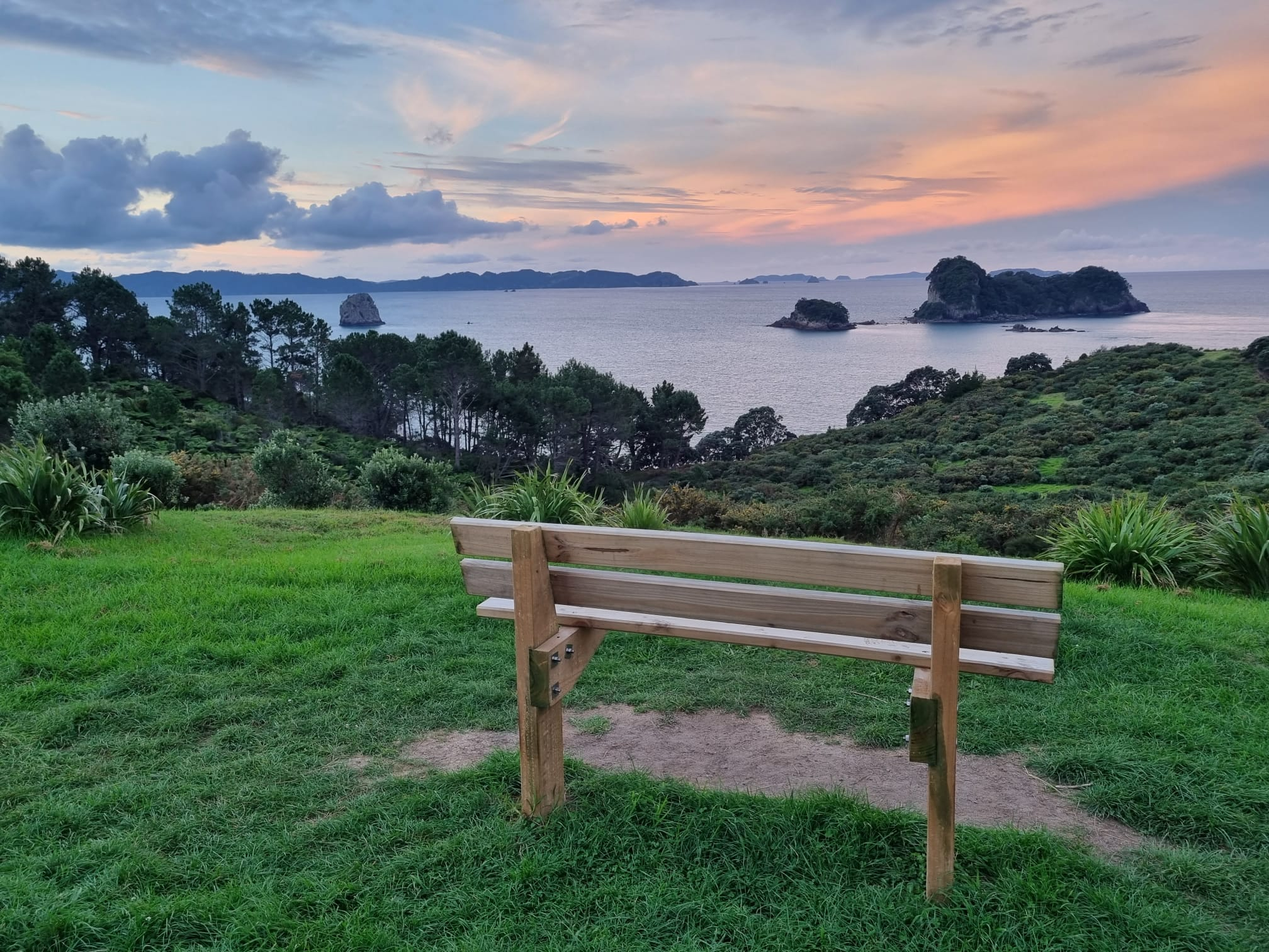
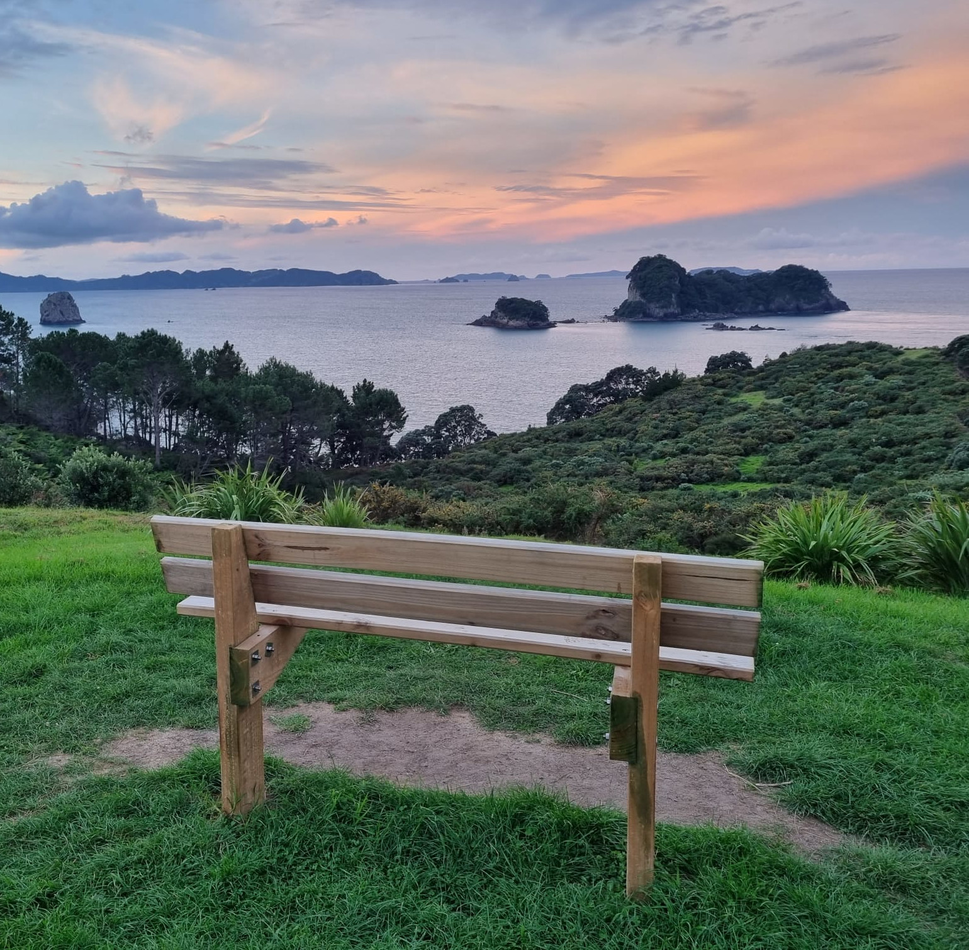
Styling touch ups

diff --git a/source/stylesheets/_pattern.scss b/source/stylesheets/_pattern.scss
@@ -2,8 +2,8 @@
 // -------------------------------------------------------------------
 .pattern--left-down {
     height: 420px;
-    top: 50px;
-    right: 50px;
+    top: 20px;
+    right: 20px;
 }
 
 .pattern--left-up {

diff --git a/source/stylesheets/_embeds.scss b/source/stylesheets/_embeds.scss
@@ -3,7 +3,7 @@
 // Make stuff responsive
 img, canvas, iframe, video, svg { max-width: 100%; }
 
-.logo { width: 385px; }
+.logo { height: 200px; }
 
 .info-image {
     @media screen and (min-width: $breakpoint--md) {

diff --git a/source/stylesheets/all.css.scss b/source/stylesheets/all.css.scss
@@ -82,3 +82,12 @@
     }
 
 }
+
+h1 {
+  text-decoration: none !important;
+}
+
+a {
+  color: inherit !important;
+  text-decoration: none !important;
+}

diff --git a/config.rb b/config.rb
@@ -21,7 +21,7 @@ page "/admin/*", layout: false
 activate :blog do |blog|
   blog.permalink = "blog/{title}.html"
   blog.sources = "posts/{title}.html"
-  # blog.layout = "news-detail"
+  blog.layout = "layout"
 end
 
 # With alternative layout

diff --git a/source/posts/tis-tid-dam-er-zin.html.md b/source/posts/tis-tid-dam-er-zin.html.md
@@ -2,8 +2,19 @@
 title: Tis tid dam er zin
 date: 2022-04-19T04:24:29.991Z
 description: De eerste verkenning door het Noordereiland
-image: /images/uploads/hubble.jpg
+image: /images/uploads/coromandel_bench.jpeg
 ---
-De deurbel gaat, we verwachten nochthans niemand? Wie zou dat nu weer zijn. Verrassend staat er een politieagente in uniform. `Mag ik bij jullie even binnenkomen om jullie verhuis in orde te brengen?`. Natuurlijk op een ongelegen moment, `Ja uiteraard kom maar binnen`, we begeleiden haar tussen de verhuisdozen en maken haastig wat plaats op de het keukeneiland, het enige tafelblad die ons nog rest. Dus jullie zijn Thomas en Marjolein? Aha nee, das een misverstand, dat zijn de volgende huurders. Onze vertroebelde hersens hadden het plots optreden van de wijkagente niet meer helder kunnen verwerken. De cyclus demontage, inpakken, transporteren had onze hersenfunctie tijdelijk aangetast, laat staan alle mentale overwegingen die we hadden moeten maken bij moeilijke keuzes wat er al dan niet meekon.
+
+De deurbel gaat, we verwachten nochthans niemand? Wie zou dat nu weer zijn. Verrassend staat er een politieagente in uniform.
+
+
+`Mag ik bij jullie even binnenkomen om jullie verhuis in orde te brengen?`
+
+
+Natuurlijk op een ongelegen moment,
+
+
+`Ja uiteraard kom maar binnen`, we begeleiden haar tussen de verhuisdozen en maken haastig wat plaats op de het keukeneiland, het enige tafelblad die ons nog rest. Dus jullie zijn Thomas en Marjolein? Aha nee, das een misverstand, dat zijn de volgende huurders. Onze vertroebelde hersens hadden het plots optreden van de wijkagente niet meer helder kunnen verwerken. De cyclus demontage, inpakken, transporteren had onze hersenfunctie tijdelijk aangetast, laat staan alle mentale overwegingen die we hadden moeten maken bij moeilijke keuzes wat er al dan niet meekon.
+
 
 Helaas bleek die hersenfunctie net cruciaal te zijn wanneer we de volgende keer iemand in uniform zagen. Op Zaventem omstreeks 9u15, boarding time 9u30. Nochthans vroeg vertrokken, maarja Brussel en files gaan samen als een tandarts en kiespijn. Barbara en Peter hadden ons vroeg klaargestoomd en op de ideal plek afgezet, en een helaas kort maar daarom niet minder intens afscheid had net plaatsgevonden. Gelukkig hadden we de dag er voor al op een iets rustigere wijze afscheid kunnen nemen van Dirk en Bernadette. De mevrouw achter de balie lijkt zelf wat te moeten zoeken, vertwijfeld zegt ze `En jullie Health Declaration Form?` . Shit, was dees nu weer, formulier 236 ... , op geen enkele email vermeld, het leek of dat ze het zelf niet goed wisten achter de balie. We zijn waarschijnlijk een van de eerste Belgen die sinds lange tijd Auckland als eindbestemming hebben. Een norse mevrouw in Brussels Airlines attire: `Ik ben de vlucht aan het afsluiten of jullie moeten nu het formulier tonen of je kunt niet mee ...`. Die uitgekookte hersenpannetjes van ons gaan nu `ALERT ALERT ALERT`, in een slotcharmoffensief richten we ons tot het laatste wapen dat we nog in ons arsenaal hebben: De zielige smeekbede. `Allez tis altijd hetzelfde, je kunt zien dat je het dan direct invult en dat het in orde komt he, want als het terug bij mij komt dan stuur ik jullie stante pede terug. ` Bagage op de band, en dan lopen ... .
